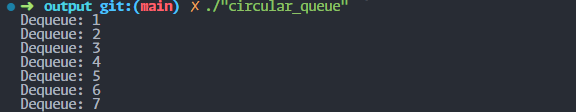
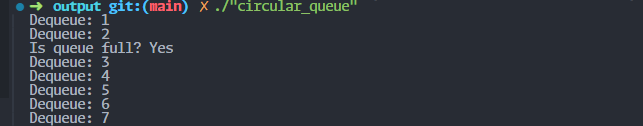
vault backup: 2024-03-20 15:35:22
Affected files:
Homework/Algorithms/oj/images/circular_queue.png
Homework/Algorithms/oj/images/linked_queue.png
Homework/Algorithms/oj/oj2.md

Changed region(s): [[0.0, 0.0, 0.625, 1.0]]

diff --git a/Homework/Algorithms/oj/oj2.md b/Homework/Algorithms/oj/oj2.md
@@ -157,10 +157,11 @@ int main() {
     // 再次入队
     cq.enqueue(6);
     cq.enqueue(7);
-
+    
+    std::cout << "Is queue full? " << (cq.isFull() ? "Yes" : "No") << std::endl; // 应该输出 "Yes
     // 继续出队
     while (!cq.isEmpty()) {
-        std::cout << "Dequeue: " << cq.dequeue() << std::endl;  // 应该输出 3 4 5 6 7S
+        std::cout << "Dequeue: " << cq.dequeue() << std::endl;  // 应该输出 3 4 5 6 7
     }
 
     return 0;
@@ -175,3 +176,82 @@ int main() {
 		1. 置空
 		2. 入队
 		3. 出队
+```cpp
+#include <iostream>
+using namespace std;
+
+class LinkedQueue {
+private:
+    struct Node {
+        int data;
+        Node* next;
+        Node(int data) : data(data), next(nullptr) {}
+    };
+
+    Node* rear;  // 队尾指针
+
+public:
+    LinkedQueue() {
+        // 初始化带头节点的循环链表
+        rear = new Node(0);
+        rear->next = rear;
+    }
+
+    ~LinkedQueue() {
+        while (!isEmpty()) {
+            dequeue();
+        }
+        delete rear;
+    }
+
+    bool isEmpty() {
+        return rear->next == rear;
+    }
+
+    void enqueue(int value) {
+        Node* newNode = new Node(value);
+        newNode->next = rear->next;
+        rear->next = newNode;
+        rear = newNode;
+    }
+
+    int dequeue() {
+        if (isEmpty())
+            throw std::underflow_error("Queue is empty");
+        Node* front = rear->next->next;
+        int value = front->data;
+        rear->next->next = front->next;
+        if (front == rear) {  // 如果队列只有一个元素
+            rear = rear->next;
+        }
+        delete front;
+        return value;
+    }
+};
+
+int main() {
+    LinkedQueue lq; // 创建一个队列
+
+    // 入队
+    lq.enqueue(1);
+    lq.enqueue(2);
+    lq.enqueue(3);
+
+    // 出队
+    std::cout << "Dequeue: " << lq.dequeue() << std::endl; // 应该输出 1
+    std::cout << "Dequeue: " << lq.dequeue() << std::endl; // 应该输出 2
+
+    // 检查队列是否为空
+    std::cout << "Is queue empty? " << (lq.isEmpty() ? "Yes" : "No") << std::endl; // 应该输出 No
+
+    // 继续出队
+    std::cout << "Dequeue: " << lq.dequeue() << std::endl; // 应该输出 3
+
+    // 再次检查队列是否为空
+    std::cout << "Is queue empty? " << (lq.isEmpty() ? "Yes" : "No") << std::endl; // 应该输出 Yes
+
+    return 0;
+}
+```
+
+![[linked_queue.png]]
